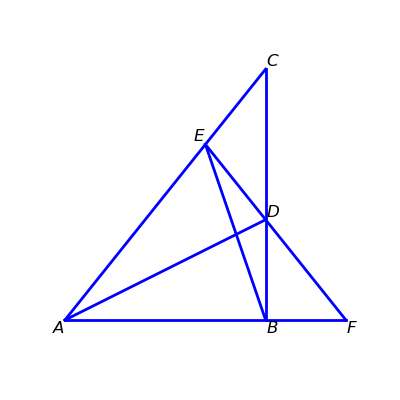
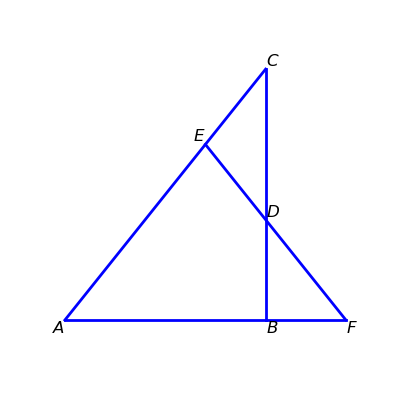
menelaus fig corrected.

diff --git a/drawing_code/python/science_fair/menelaus_outer_point.py b/drawing_code/python/science_fair/menelaus_outer_point.py
@@ -43,8 +43,8 @@ pE = (0.3*pA + 0.7*pC)
 lineAC, = ax2.plot(*zip(pA,pC),linewidth = 2,color='b')
 lineBA, = ax2.plot(*zip(pB,pA),linewidth = 2,color='b')
 lineBC, = ax2.plot(*zip(pB,pC),linewidth = 2,color='b')
-lineAD, = ax2.plot(*zip(pA,pD),linewidth = 2,color='b')
-lineBE, = ax2.plot(*zip(pB,pE),linewidth = 2,color='b')
+#lineAD, = ax2.plot(*zip(pA,pD),linewidth = 2,color='b')
+#lineBE, = ax2.plot(*zip(pB,pE),linewidth = 2,color='b')
 
 pO = return_intersection_under_Ceva_Theorem(pA,pB,pC,pD,pE)
 pF = return_Menelaus_third_outer_point(pA,pB,pC,pD,pE)
